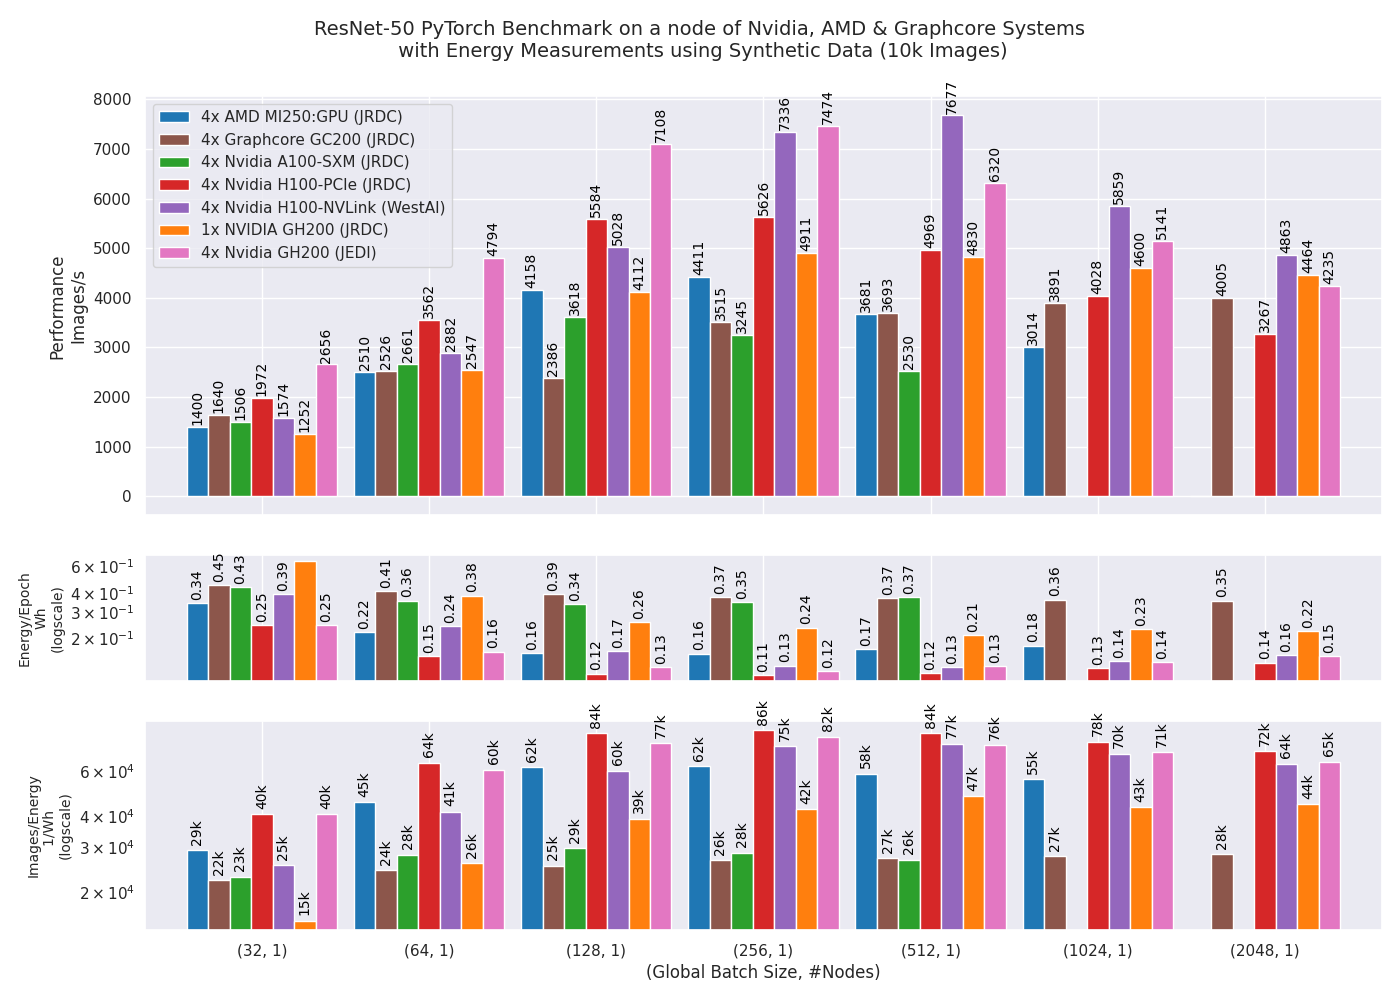
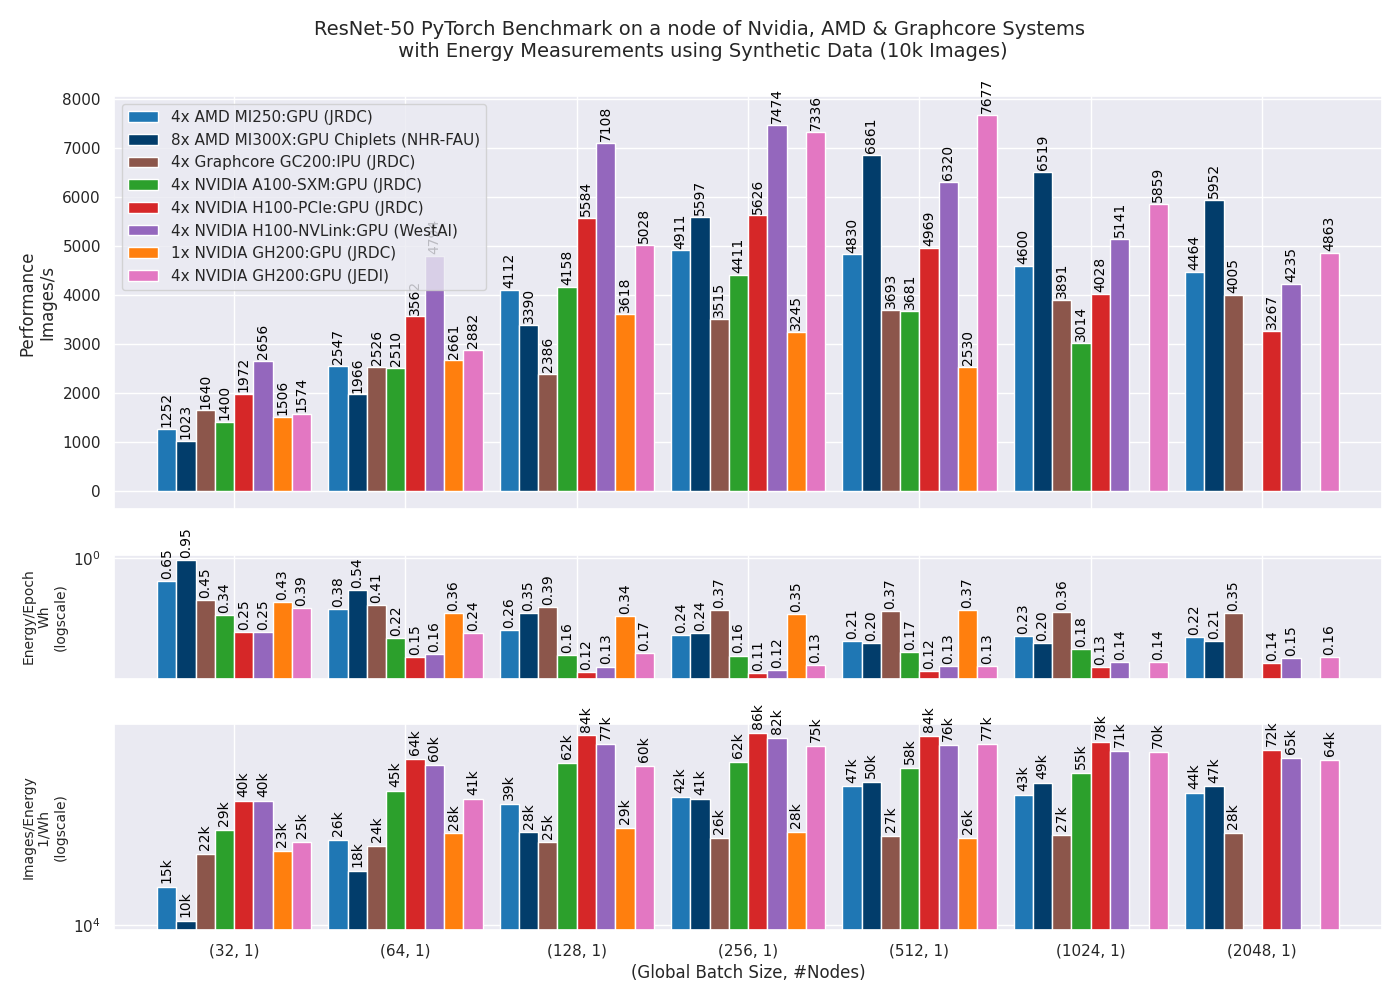
update MI300X plots

Changed region(s): [[0.0, 0.093, 0.9829, 0.496], [0.0, 0.713, 0.9521, 0.992], [0.0, 0.527, 0.9521, 0.682]]

diff --git a/README.md b/README.md
@@ -110,7 +110,7 @@ cd CARAML
    ```
 
 # Results
-![LLM Training Benchmark](./assets/LLM_800M.png)
+![LLM Training Benchmark](./assets/LLM_800M_all.png)
 
 ![Image Classsification: ResNet50](./assets/resnet_torch_all.png)
  
